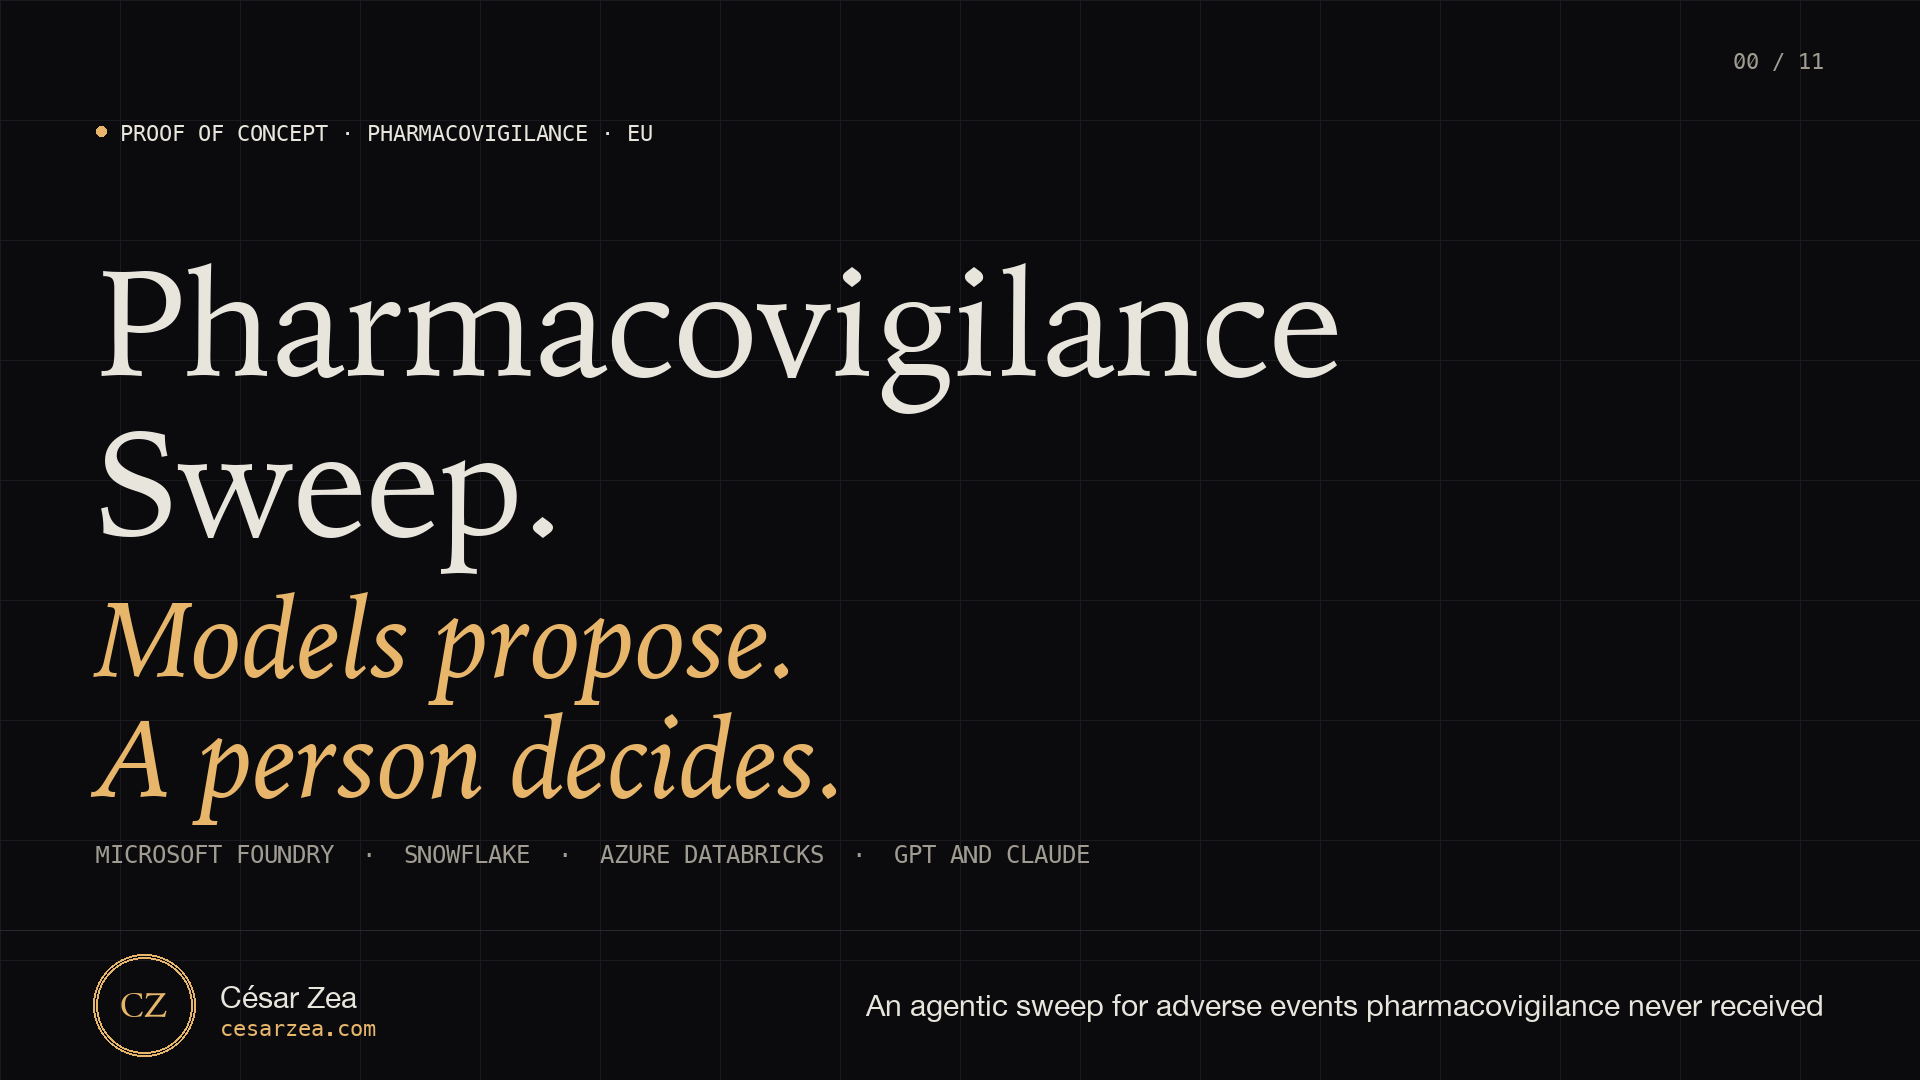
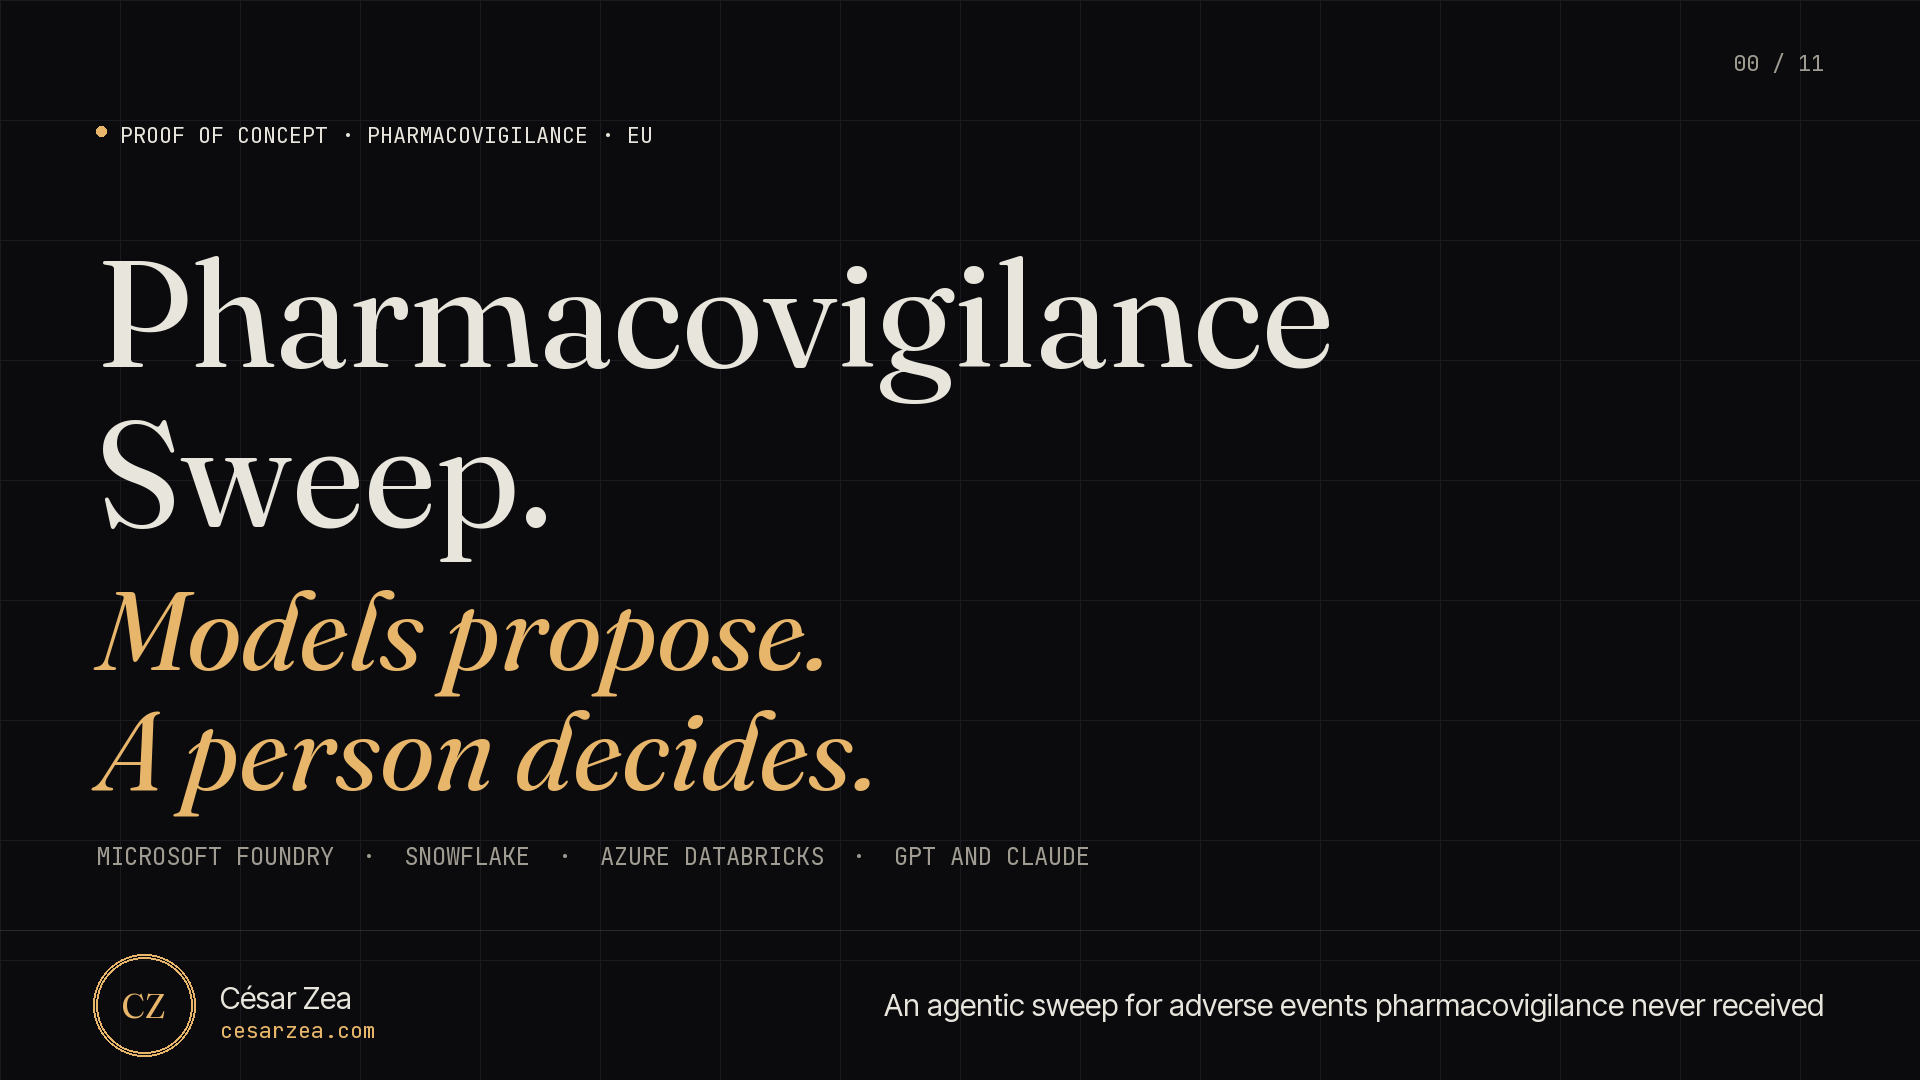
Demo frames 0, 1, 2 and 10 with the site's fonts; initials in the footer circle

diff --git a/scripts/make_demo_frames.py b/scripts/make_demo_frames.py
@@ -59,7 +59,30 @@ def font_file(candidates: list[str], style: str = "") -> tuple[str, int] | None:
     return None
 
 
+LOCAL_FONTS = Path("docs/demo/fonts")   # the site's own fonts, converted from woff2 (git-ignored)
+LOCAL = {  # (family, style word) -> (file prefix, variation axes)
+    ("Fraunces", ""): ("Fraunces-normal", {"wght": 380, "opsz": 72}),
+    ("Fraunces", "Italic"): ("Fraunces-italic", {"wght": 380, "opsz": 72}),
+    ("Inter Tight", ""): ("InterTight-normal", {"wght": 400}),
+    ("JetBrains Mono", ""): ("JetBrainsMono-normal", {"wght": 400}),
+}
+
+
 def load(candidates: list[str], size: int, style: str = "", index: int = 0) -> ImageFont.FreeTypeFont:
+    wanted = "Italic" if "Italic" in style else ""
+    for family in candidates:
+        if (family, wanted) in LOCAL and LOCAL_FONTS.is_dir():
+            prefix, axes = LOCAL[(family, wanted)]
+            files = sorted(LOCAL_FONTS.glob(prefix + "*.ttf"))
+            if files:
+                f = ImageFont.truetype(str(files[0]), size=size)
+                try:
+                    names = [a["name"].decode() if isinstance(a["name"], bytes) else a["name"] for a in f.get_variation_axes()]
+                    f.set_variation_by_axes([axes.get(n.lower()[:4], axes.get(n, 400)) if n.lower().startswith(("wght", "weight")) else
+                                             (axes.get("opsz", 72) if n.lower().startswith(("opsz", "optical")) else 0) for n in names])
+                except Exception:  # noqa: BLE001 - static font or no variation support in this build
+                    pass
+                return f
     found = font_file(candidates, style)
     if found is None:
         return ImageFont.load_default(size=size)
@@ -98,8 +121,11 @@ def footer(im: Image.Image, d: ImageDraw.ImageDraw, caption: str, portrait: Path
     cx, cy = 96 + r, y0 + 75
     if portrait and portrait.is_file():
         p = Image.open(portrait).convert("RGB")
-        side = min(p.size)
-        p = p.crop(((p.width - side) // 2, 0, (p.width - side) // 2 + side, side)).resize((2 * r, 2 * r), Image.LANCZOS)
+        # the site's portrait is a wide frame with the face right of centre; crop a square around it
+        side = int(p.height * 0.72)
+        fx, fy = int(p.width * 0.70), int(p.height * 0.40)
+        box = (max(0, fx - side // 2), max(0, fy - side // 2))
+        p = p.crop((box[0], box[1], box[0] + side, box[1] + side)).resize((2 * r, 2 * r), Image.LANCZOS)
         mask = Image.new("L", (2 * r, 2 * r), 0)
         ImageDraw.Draw(mask).ellipse([0, 0, 2 * r - 1, 2 * r - 1], fill=255)
         im.paste(p, (cx - r, cy - r), mask)
@@ -175,13 +201,65 @@ def frame_01(portrait: Path | None, total: int) -> Image.Image:
     return im
 
 
-FRAMES = {0: frame_00, 1: frame_01}
+def frame_02(portrait: Path | None, total: int) -> Image.Image:
+    im, d = canvas()
+    label(d, (96, 120), "What the solution does")
+    d.text((96, 190), "Re-read every record.", font=load(SERIF, 92, "Light"), fill=INK)
+    d.text((96, 300), "Keep what PV never received.", font=load(SERIF, 92, "Light Italic"), fill=GOLD)
+    steps = [("1", "Screen", "adverse event or special situation?"), ("2", "Extract", "case facts with evidence quotes"),
+             ("3", "Rules", "ownership, seriousness, day 0, deadlines"), ("4", "Match", "agent checks what PV already holds"),
+             ("5", "Finding", "priority and proposed intake package"), ("6", "Reconcile", "vendor logs vs what PV received")]
+    x, y, cw, ch, gap = 96, 470, 280, 260, 20
+    for n, title, desc in steps:
+        d.rounded_rectangle([x, y, x + cw, y + ch], radius=14, fill=CARD, outline=(44, 44, 52), width=1)
+        d.text((x + 24, y + 22), n, font=load(SERIF, 56, "Light"), fill=GOLD)
+        d.text((x + 24, y + 110), title, font=load(SANS, 34), fill=INK)
+        yy = y + 158
+        for ln in wrap(d, desc, load(SANS, 26), cw - 48):
+            d.text((x + 24, yy), ln, font=load(SANS, 26), fill=MUTED)
+            yy += 34
+        if n != "6":
+            d.text((x + cw + gap // 2, y + ch // 2), "›", font=load(SANS, 30), fill=(70, 70, 78), anchor="mm")
+        x += cw + gap
+    body = load(SANS, 34)
+    for i, ln in enumerate(wrap(d, "A pharmacovigilance reviewer works the prioritised queue in a review app and records the outcome. "
+                                   "Nothing is closed by a model.", body, 1560)):
+        d.text((96, 790 + i * 46), ln, font=body, fill=INK)
+    footer(im, d, "Screen, extract, apply the rules, match, produce the finding, reconcile", portrait, 2, total)
+    return im
+
+
+def frame_10(portrait: Path | None, total: int) -> Image.Image:
+    im, d = canvas()
+    label(d, (96, 120), "Results · 450 synthetic records · round 3")
+    d.text((96, 190), "Measured,", font=load(SERIF, 92, "Light"), fill=INK)
+    d.text((96, 300), "not assumed.", font=load(SERIF, 92, "Light Italic"), fill=GOLD)
+    rows = [("", "GPT", "Claude on Foundry"), ("Screening recall", "0.997", "0.976"), ("Extraction valid", "0.995", "1.000"),
+            ("Causality statement", "0.901", "0.938"), ("Matching outcome", "0.835", "0.954"), ("Model cost per sweep", "about $11", "about $11")]
+    x0, y0, rh = 96, 460, 58
+    cols = [x0, x0 + 620, x0 + 980]
+    for i, (a, b, c) in enumerate(rows):
+        yy = y0 + i * rh
+        fnt = load(MONO, 24) if i == 0 else load(SANS, 32)
+        col = GOLD if i == 0 else INK
+        d.text((cols[0], yy), a, font=fnt, fill=col)
+        d.text((cols[1], yy), b, font=fnt, fill=col)
+        d.text((cols[2], yy), c, font=fnt, fill=col)
+        if i == 0:
+            d.line([(x0, yy + 44), (x0 + 1300, yy + 44)], fill=(60, 60, 68), width=1)
+    d.text((96, 830), "Deployable from scratch by the scripts in the repository.", font=load(SANS, 34), fill=INK)
+    d.text((96, 880), "github.com/cesarzea/pharmacovigilance-sweep", font=load(MONO, 30), fill=GOLD)
+    footer(im, d, "Models propose. A person decides.", portrait, 10, total)
+    return im
+
+
+FRAMES = {0: frame_00, 1: frame_01, 2: frame_02, 10: frame_10}
 
 
 def main() -> int:
     ap = argparse.ArgumentParser()
     ap.add_argument("--frames", default=",".join(str(k) for k in FRAMES))
-    ap.add_argument("--portrait", default="docs/demo/portrait.png", help="square-ish photo; a placeholder is drawn when missing")
+    ap.add_argument("--portrait", default="", help="optional photo for the circle; by default the circle shows the initials")
     ap.add_argument("--total", type=int, default=11)
     args = ap.parse_args()
     OUT.mkdir(parents=True, exist_ok=True)
